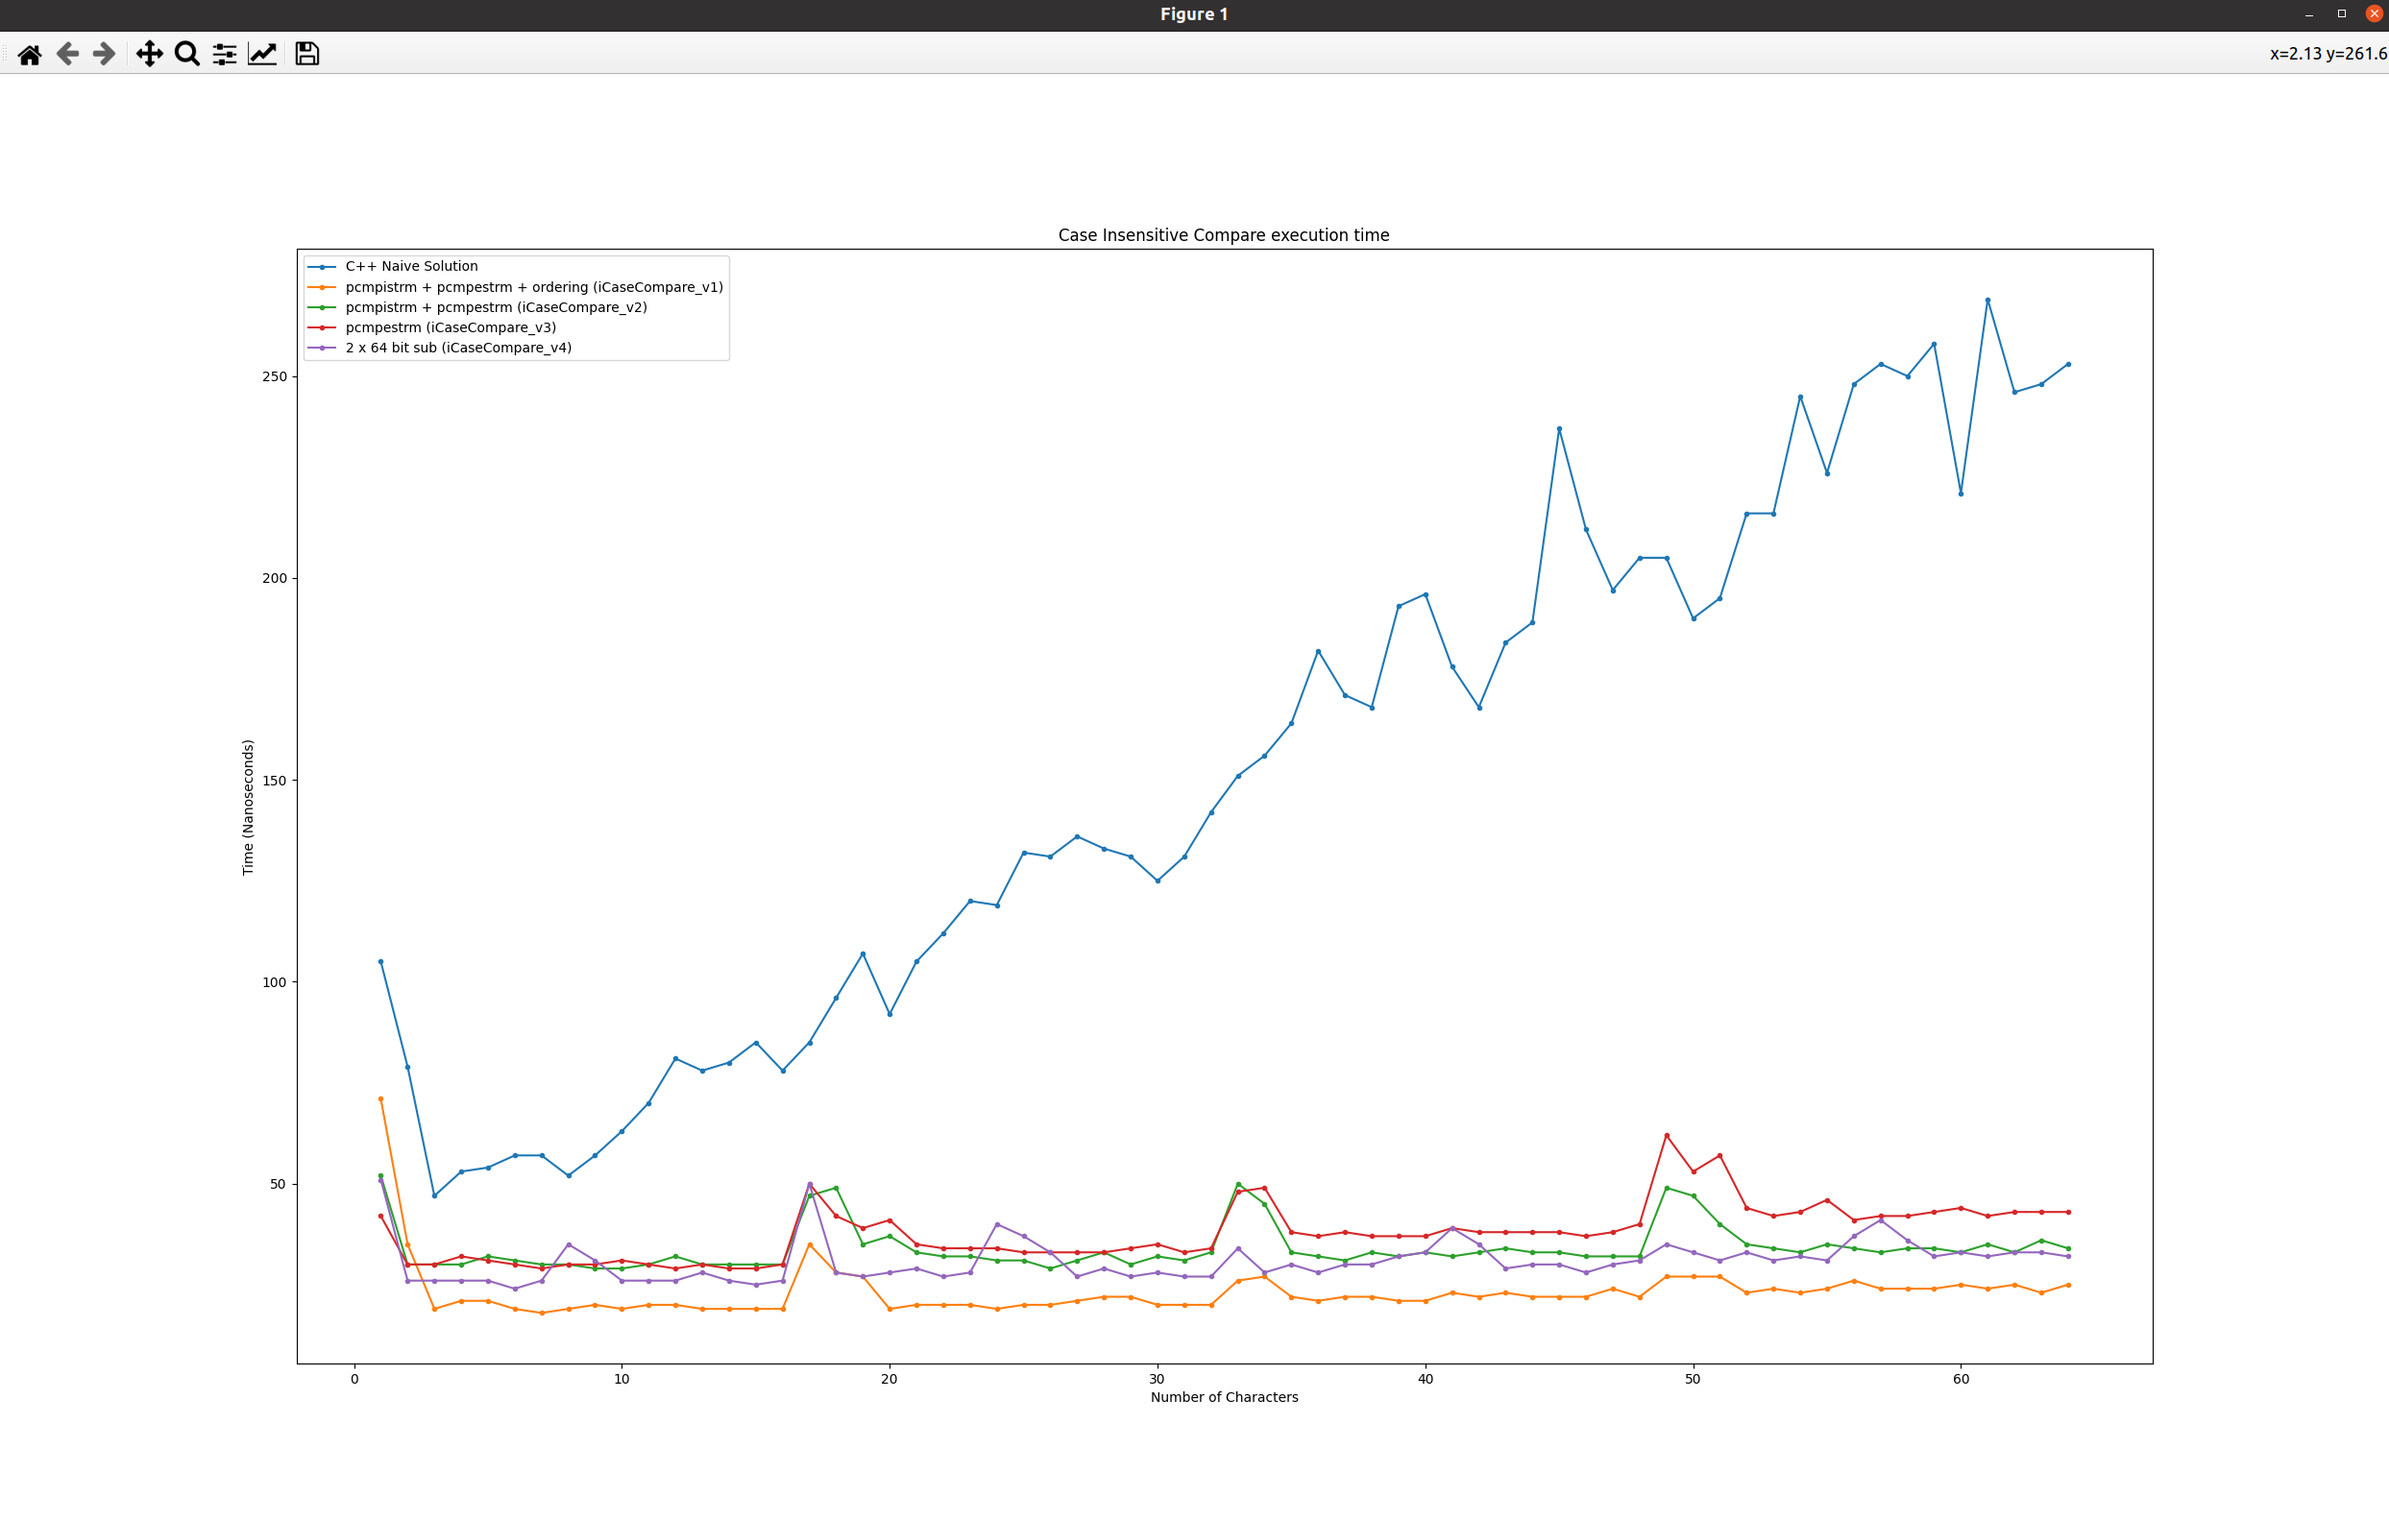
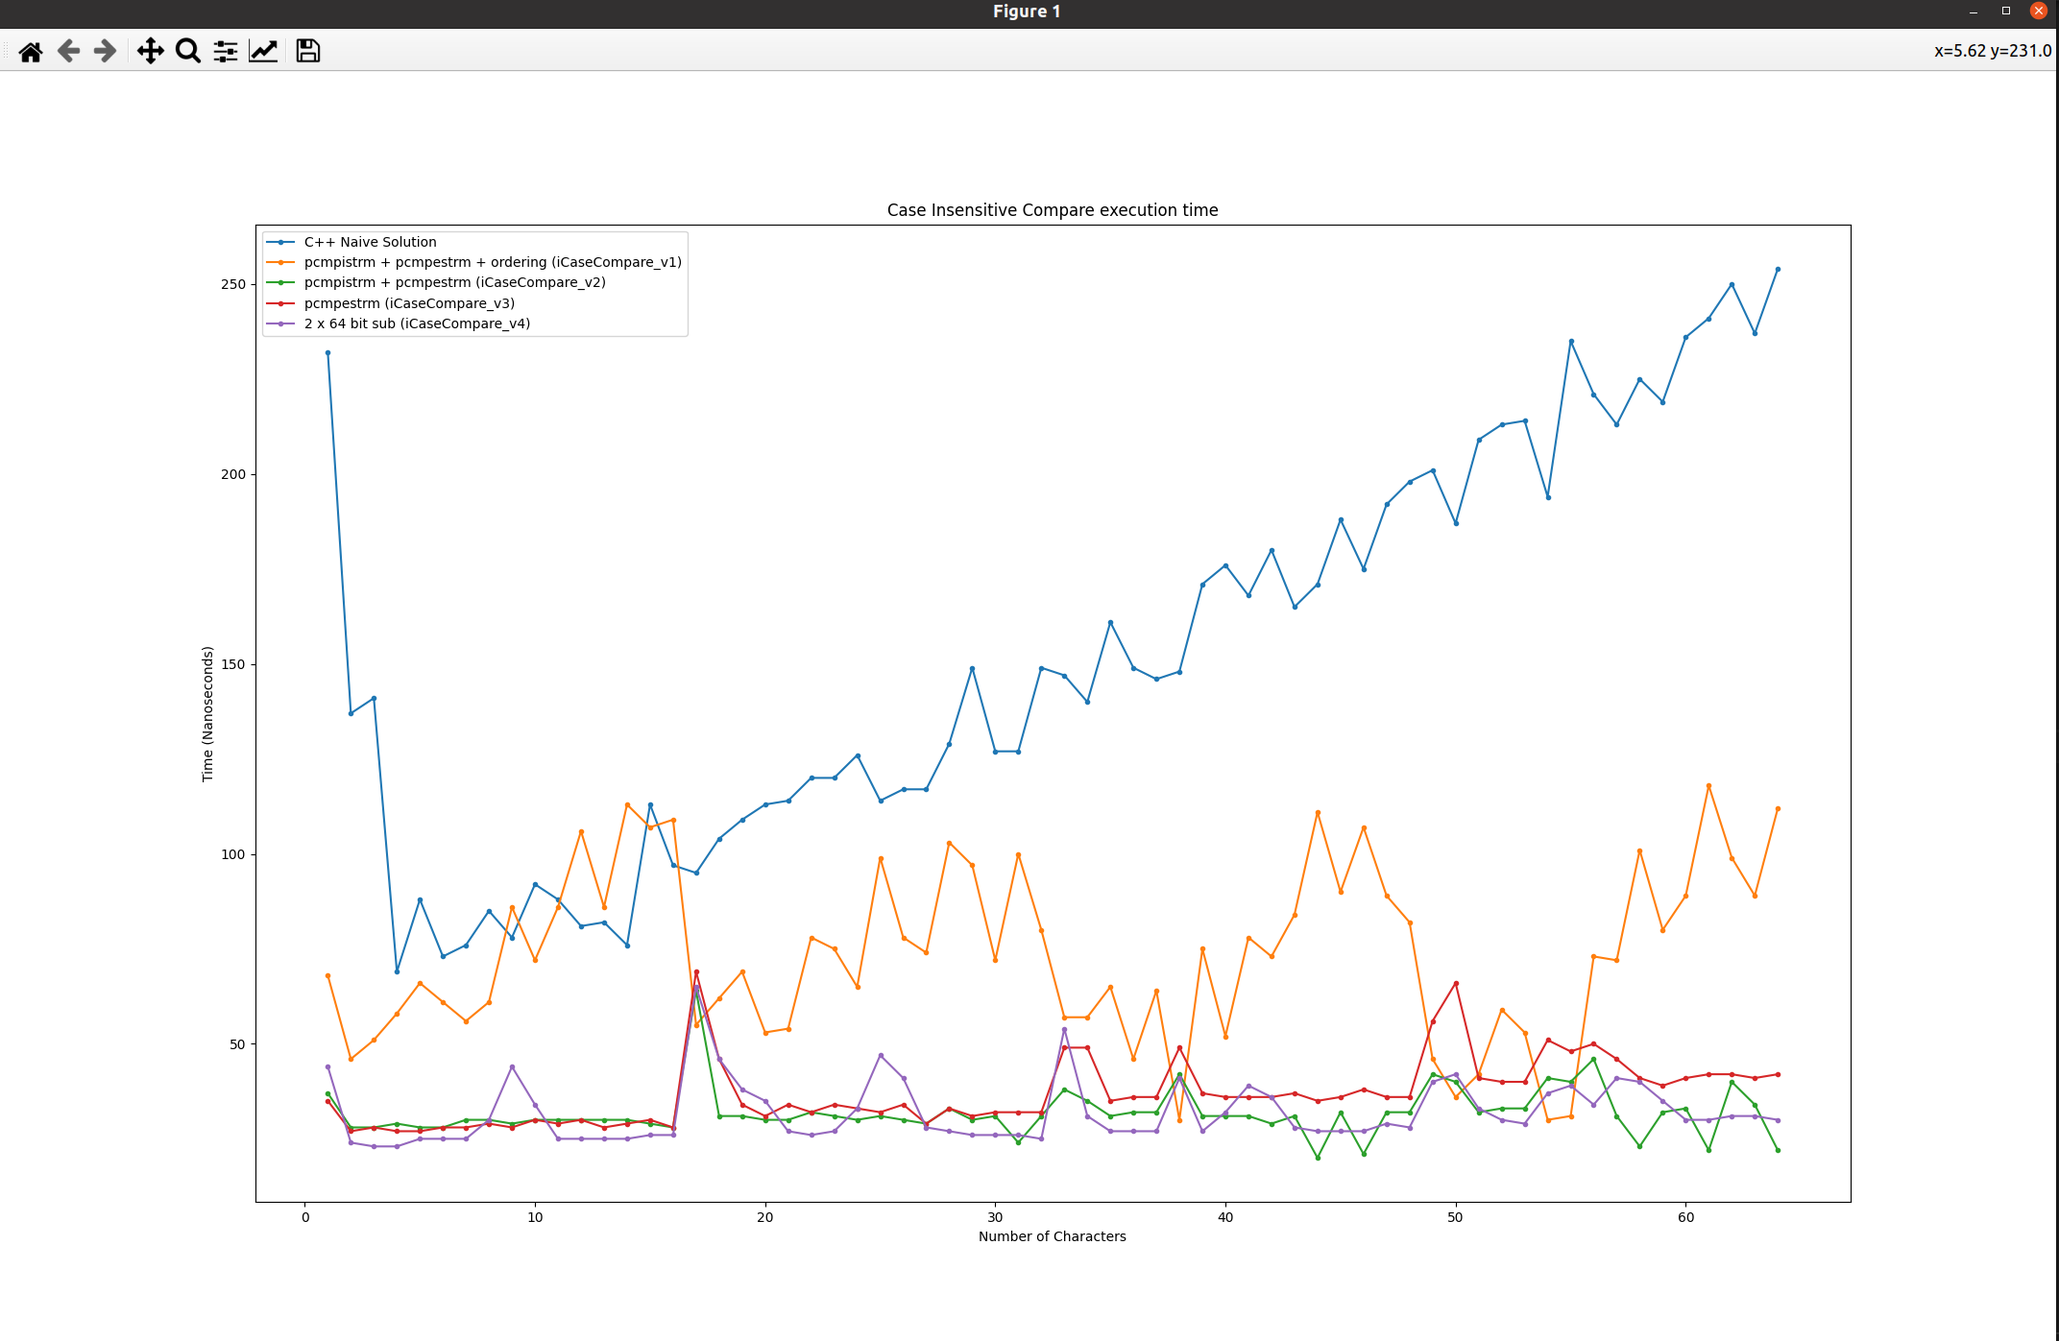
add updated graph

diff --git a/TestAssembly/analyzesolution.cpp b/TestAssembly/analyzesolution.cpp
@@ -235,11 +235,11 @@ void AnalyzeSolution::analyzeStringCompareCaseinsensitive()
         unsigned char *str1 = utility->getRandomString(len);
         unsigned char *str2 = utility->getDeepcopyStringRandomizeCase(str1, len);
 
-//        /// change a random byte to make expected equal false
-//        unsigned int randomByte = ANG::tools::random::next() % len;
-//        int offset = 5 - (ANG::tools::random::next() % 10);
-//        printf("Index: %d, Changing Single byte from %c to %c\n", randomByte, str2[randomByte], str2[randomByte] + offset);
-//        str2[randomByte] += offset;
+        /// change a random byte to make expected equal false
+        unsigned int randomByte = len-1;//ANG::tools::random::next() % len;
+        int offset = 5 - (ANG::tools::random::next() % 10);
+        printf("Index: %d, Changing Single byte from %c to %c\n", randomByte, str2[randomByte], str2[randomByte] + offset);
+        str2[randomByte] += offset;
 
         /// print the starting address of both strings
         printf("Address of str1  = %p\n", str1);

diff --git a/TestAssembly/table_1_to_64_bytes_test(23-Nov-2022).md b/TestAssembly/table_1_to_64_bytes_test(23-Nov-2022).md
@@ -1,66 +1,66 @@
 | Number of Characters | C++ Naive Solution | pcmpistrm + pcmpestrm + ordering (iCaseCompare_v1) | pcmpistrm + pcmpestrm (iCaseCompare_v2) | pcmpestrm (iCaseCompare_v3) | 2 x 64 bit sub (iCaseCompare_v4) |
 | ---------- | ---------- | ---------- | ---------- | ---------- | ---------- |
-| 1 |105 |71 |52 |42 |51 |
-| 2 |79 |35 |30 |30 |26 |
-| 3 |47 |19 |30 |30 |26 |
-| 4 |53 |21 |30 |32 |26 |
-| 5 |54 |21 |32 |31 |26 |
-| 6 |57 |19 |31 |30 |24 |
-| 7 |57 |18 |30 |29 |26 |
-| 8 |52 |19 |30 |30 |35 |
-| 9 |57 |20 |29 |30 |31 |
-| 10 |63 |19 |29 |31 |26 |
-| 11 |70 |20 |30 |30 |26 |
-| 12 |81 |20 |32 |29 |26 |
-| 13 |78 |19 |30 |30 |28 |
-| 14 |80 |19 |30 |29 |26 |
-| 15 |85 |19 |30 |29 |25 |
-| 16 |78 |19 |30 |30 |26 |
-| 17 |85 |35 |47 |50 |50 |
-| 18 |96 |28 |49 |42 |28 |
-| 19 |107 |27 |35 |39 |27 |
-| 20 |92 |19 |37 |41 |28 |
-| 21 |105 |20 |33 |35 |29 |
-| 22 |112 |20 |32 |34 |27 |
-| 23 |120 |20 |32 |34 |28 |
-| 24 |119 |19 |31 |34 |40 |
-| 25 |132 |20 |31 |33 |37 |
-| 26 |131 |20 |29 |33 |33 |
-| 27 |136 |21 |31 |33 |27 |
-| 28 |133 |22 |33 |33 |29 |
-| 29 |131 |22 |30 |34 |27 |
-| 30 |125 |20 |32 |35 |28 |
-| 31 |131 |20 |31 |33 |27 |
-| 32 |142 |20 |33 |34 |27 |
-| 33 |151 |26 |50 |48 |34 |
-| 34 |156 |27 |45 |49 |28 |
-| 35 |164 |22 |33 |38 |30 |
-| 36 |182 |21 |32 |37 |28 |
-| 37 |171 |22 |31 |38 |30 |
-| 38 |168 |22 |33 |37 |30 |
-| 39 |193 |21 |32 |37 |32 |
-| 40 |196 |21 |33 |37 |33 |
-| 41 |178 |23 |32 |39 |39 |
-| 42 |168 |22 |33 |38 |35 |
-| 43 |184 |23 |34 |38 |29 |
-| 44 |189 |22 |33 |38 |30 |
-| 45 |237 |22 |33 |38 |30 |
-| 46 |212 |22 |32 |37 |28 |
-| 47 |197 |24 |32 |38 |30 |
-| 48 |205 |22 |32 |40 |31 |
-| 49 |205 |27 |49 |62 |35 |
-| 50 |190 |27 |47 |53 |33 |
-| 51 |195 |27 |40 |57 |31 |
-| 52 |216 |23 |35 |44 |33 |
-| 53 |216 |24 |34 |42 |31 |
-| 54 |245 |23 |33 |43 |32 |
-| 55 |226 |24 |35 |46 |31 |
-| 56 |248 |26 |34 |41 |37 |
-| 57 |253 |24 |33 |42 |41 |
-| 58 |250 |24 |34 |42 |36 |
-| 59 |258 |24 |34 |43 |32 |
-| 60 |221 |25 |33 |44 |33 |
-| 61 |269 |24 |35 |42 |32 |
-| 62 |246 |25 |33 |43 |33 |
-| 63 |248 |23 |36 |43 |33 |
-| 64 |253 |25 |34 |43 |32 |
+| 1 |232 |68 |37 |35 |44 |
+| 2 |137 |46 |28 |27 |24 |
+| 3 |141 |51 |28 |28 |23 |
+| 4 |69 |58 |29 |27 |23 |
+| 5 |88 |66 |28 |27 |25 |
+| 6 |73 |61 |28 |28 |25 |
+| 7 |76 |56 |30 |28 |25 |
+| 8 |85 |61 |30 |29 |30 |
+| 9 |78 |86 |29 |28 |44 |
+| 10 |92 |72 |30 |30 |34 |
+| 11 |88 |86 |30 |29 |25 |
+| 12 |81 |106 |30 |30 |25 |
+| 13 |82 |86 |30 |28 |25 |
+| 14 |76 |113 |30 |29 |25 |
+| 15 |113 |107 |29 |30 |26 |
+| 16 |97 |109 |28 |28 |26 |
+| 17 |95 |55 |64 |69 |65 |
+| 18 |104 |62 |31 |46 |46 |
+| 19 |109 |69 |31 |34 |38 |
+| 20 |113 |53 |30 |31 |35 |
+| 21 |114 |54 |30 |34 |27 |
+| 22 |120 |78 |32 |32 |26 |
+| 23 |120 |75 |31 |34 |27 |
+| 24 |126 |65 |30 |33 |33 |
+| 25 |114 |99 |31 |32 |47 |
+| 26 |117 |78 |30 |34 |41 |
+| 27 |117 |74 |29 |29 |28 |
+| 28 |129 |103 |33 |33 |27 |
+| 29 |149 |97 |30 |31 |26 |
+| 30 |127 |72 |31 |32 |26 |
+| 31 |127 |100 |24 |32 |26 |
+| 32 |149 |80 |31 |32 |25 |
+| 33 |147 |57 |38 |49 |54 |
+| 34 |140 |57 |35 |49 |31 |
+| 35 |161 |65 |31 |35 |27 |
+| 36 |149 |46 |32 |36 |27 |
+| 37 |146 |64 |32 |36 |27 |
+| 38 |148 |30 |42 |49 |41 |
+| 39 |171 |75 |31 |37 |27 |
+| 40 |176 |52 |31 |36 |32 |
+| 41 |168 |78 |31 |36 |39 |
+| 42 |180 |73 |29 |36 |36 |
+| 43 |165 |84 |31 |37 |28 |
+| 44 |171 |111 |20 |35 |27 |
+| 45 |188 |90 |32 |36 |27 |
+| 46 |175 |107 |21 |38 |27 |
+| 47 |192 |89 |32 |36 |29 |
+| 48 |198 |82 |32 |36 |28 |
+| 49 |201 |46 |42 |56 |40 |
+| 50 |187 |36 |40 |66 |42 |
+| 51 |209 |42 |32 |41 |33 |
+| 52 |213 |59 |33 |40 |30 |
+| 53 |214 |53 |33 |40 |29 |
+| 54 |194 |30 |41 |51 |37 |
+| 55 |235 |31 |40 |48 |39 |
+| 56 |221 |73 |46 |50 |34 |
+| 57 |213 |72 |31 |46 |41 |
+| 58 |225 |101 |23 |41 |40 |
+| 59 |219 |80 |32 |39 |35 |
+| 60 |236 |89 |33 |41 |30 |
+| 61 |241 |118 |22 |42 |30 |
+| 62 |250 |99 |40 |42 |31 |
+| 63 |237 |89 |34 |41 |31 |
+| 64 |254 |112 |22 |42 |30 |
